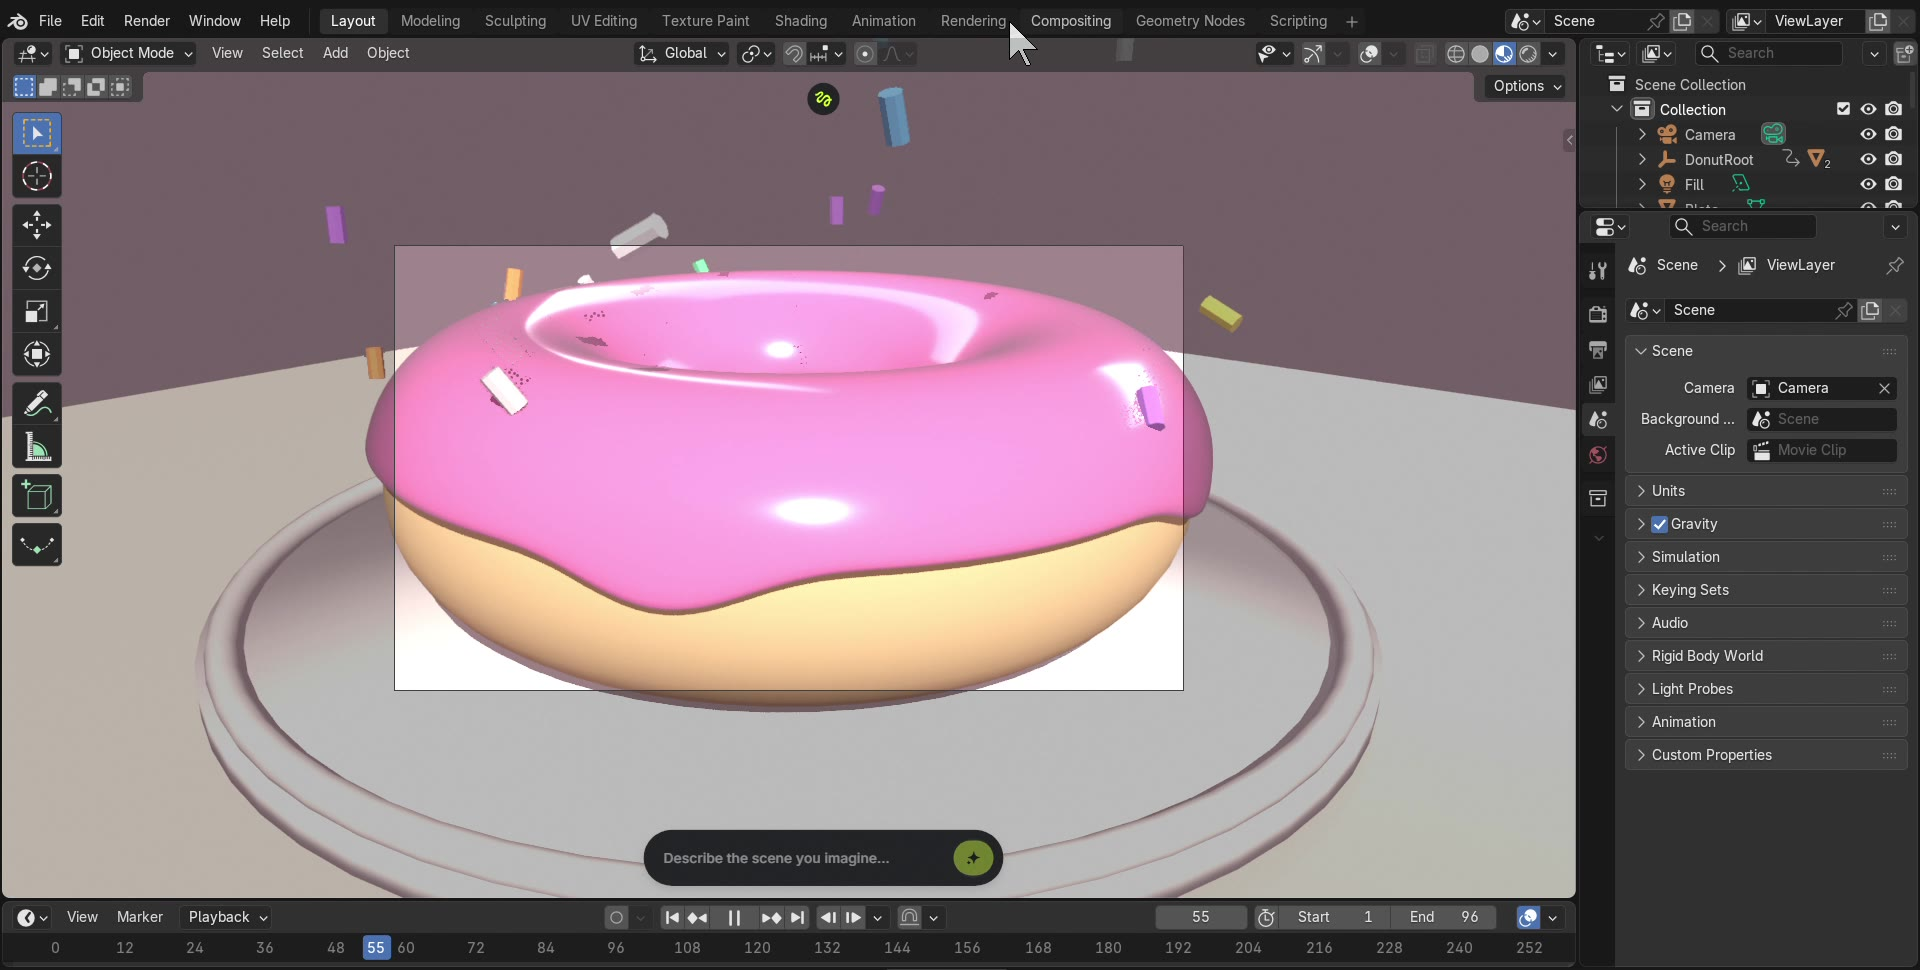
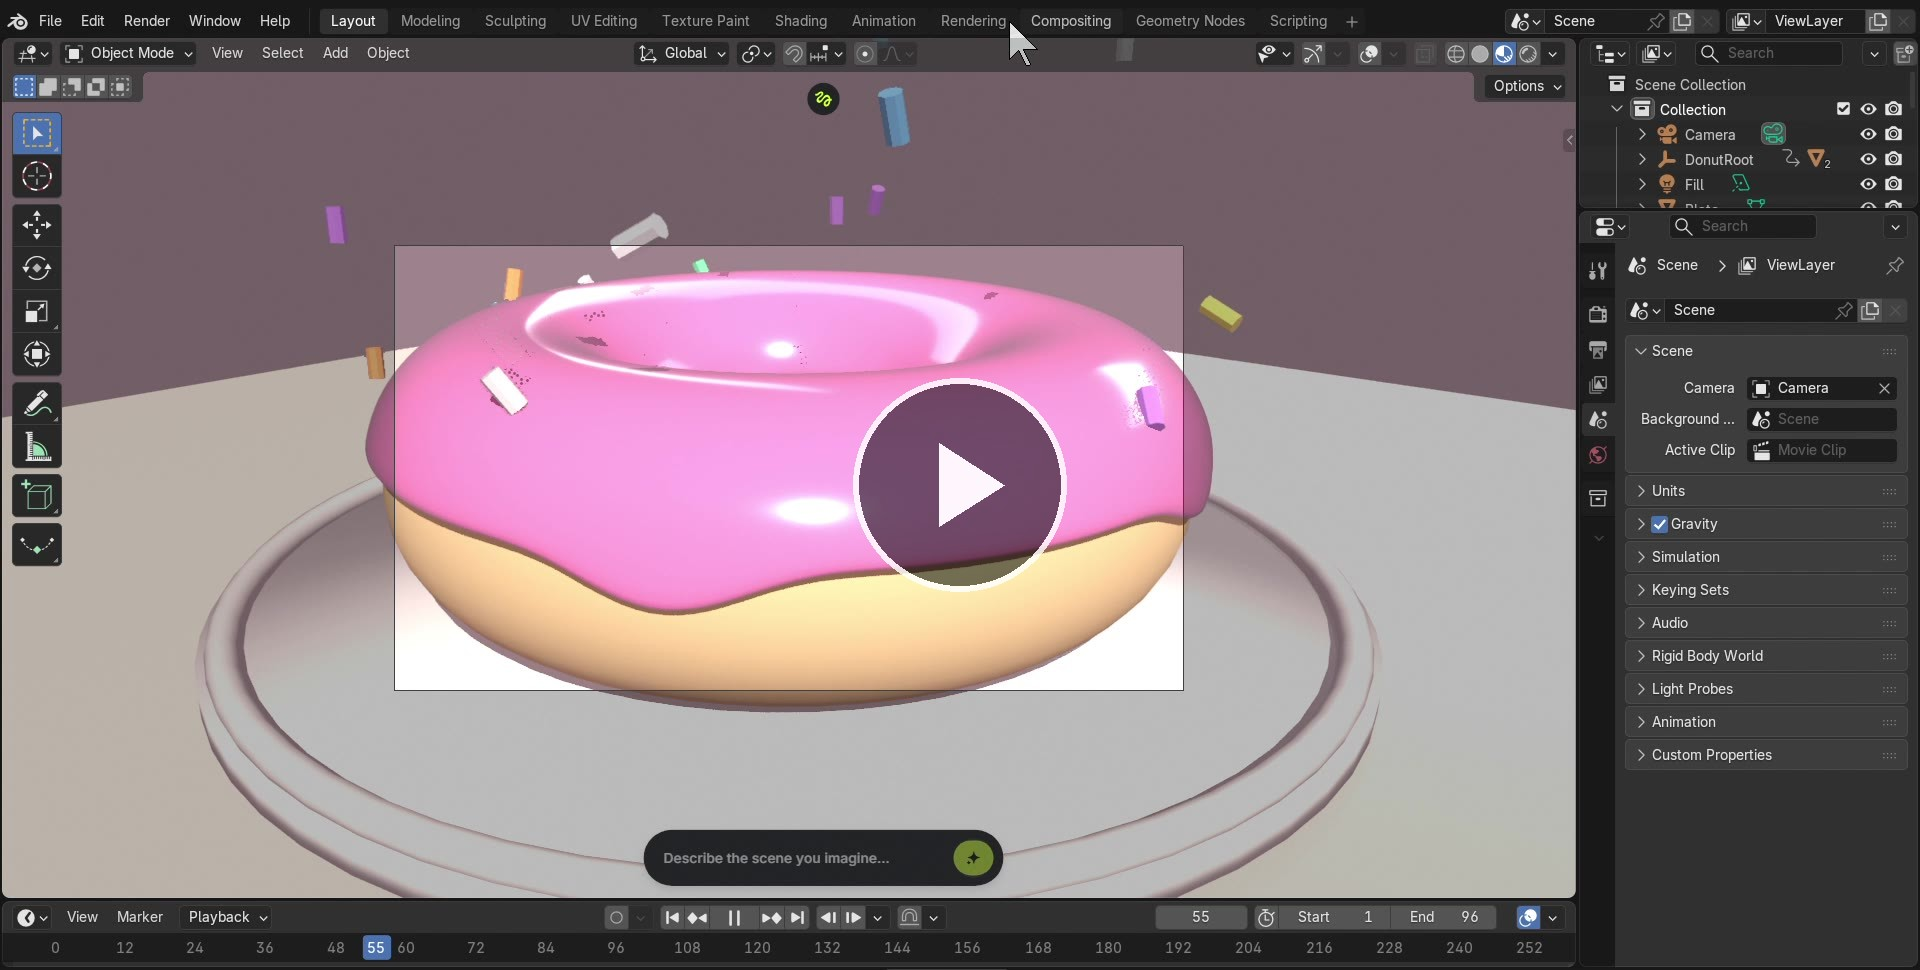
Fix README stills so they play on GitHub Pages instead of the blob viewer.
GitHub serves committed MP4s as downloads; the posters now open autoplay player pages.

Changed region(s): [[0.4375, 0.3711, 0.5625, 0.6186]]

diff --git a/play/blender.html b/play/blender.html
@@ -1,0 +1,25 @@
+<!DOCTYPE html>
+<html lang="en">
+<head>
+  <meta charset="UTF-8">
+  <meta name="viewport" content="width=device-width, initial-scale=1">
+  <title>Blender viewport — donut drop</title>
+  <style>
+    html, body { margin: 0; height: 100%; background: #111; color: #eee; font-family: system-ui, sans-serif; }
+    .wrap { min-height: 100%; display: flex; flex-direction: column; }
+    header { padding: 12px 16px; display: flex; gap: 16px; align-items: center; flex-wrap: wrap; }
+    a { color: #ffb3c7; }
+    video { width: 100%; flex: 1; max-height: calc(100vh - 52px); background: #000; }
+  </style>
+</head>
+<body>
+  <div class="wrap">
+    <header>
+      <a href="../web/">Shop</a>
+      <a href="web.html">Website recording</a>
+      <span>Blender 5.2 — drop, squash, sprinkle rain</span>
+    </header>
+    <video src="../media/blender-viewport.mp4" poster="../media/blender-poster.jpg" controls autoplay playsinline></video>
+  </div>
+</body>
+</html>

diff --git a/play/web.html b/play/web.html
@@ -1,0 +1,25 @@
+<!DOCTYPE html>
+<html lang="en">
+<head>
+  <meta charset="UTF-8">
+  <meta name="viewport" content="width=device-width, initial-scale=1">
+  <title>Website studio — donut drop</title>
+  <style>
+    html, body { margin: 0; height: 100%; background: #111; color: #eee; font-family: system-ui, sans-serif; }
+    .wrap { min-height: 100%; display: flex; flex-direction: column; }
+    header { padding: 12px 16px; display: flex; gap: 16px; align-items: center; flex-wrap: wrap; }
+    a { color: #ffb3c7; }
+    video { width: 100%; flex: 1; max-height: calc(100vh - 52px); background: #000; }
+  </style>
+</head>
+<body>
+  <div class="wrap">
+    <header>
+      <a href="../web/">Shop</a>
+      <a href="blender.html">Blender recording</a>
+      <span>Website — orbit, play/pause, frosting flavors</span>
+    </header>
+    <video src="../media/web-studio.mp4" poster="../media/web-poster.jpg" controls autoplay playsinline></video>
+  </div>
+</body>
+</html>

diff --git a/README.md b/README.md
@@ -12,21 +12,25 @@ This repository exists to make that loop inspectable. The 3D and the HTML are th
 
 ## Click a still to play
 
+GitHub’s file viewer does not play committed MP4s, so the stills open GitHub Pages players instead.
+
 <table>
   <tr>
     <td align="center" valign="top" width="50%">
-      <a href="media/blender-viewport.mp4">
+      <a href="https://az9713.github.io/cursor-blender-animation-demo/play/blender.html">
         <img src="media/blender-poster.jpg" alt="Play the Blender viewport recording of the donut drop" />
       </a>
       <br />
-      <strong>Blender 5.2</strong> — drop, squash, sprinkle rain
+      <strong>Blender 5.2</strong> — drop, squash, sprinkle rain<br />
+      <a href="https://az9713.github.io/cursor-blender-animation-demo/play/blender.html">▶ Play</a>
     </td>
     <td align="center" valign="top" width="50%">
-      <a href="media/web-studio.mp4">
+      <a href="https://az9713.github.io/cursor-blender-animation-demo/play/web.html">
         <img src="media/web-poster.jpg" alt="Play the website studio recording" />
       </a>
       <br />
-      <strong>Website</strong> — orbit, play/pause, frosting flavors
+      <strong>Website</strong> — orbit, play/pause, frosting flavors<br />
+      <a href="https://az9713.github.io/cursor-blender-animation-demo/play/web.html">▶ Play</a>
     </td>
   </tr>
 </table>
